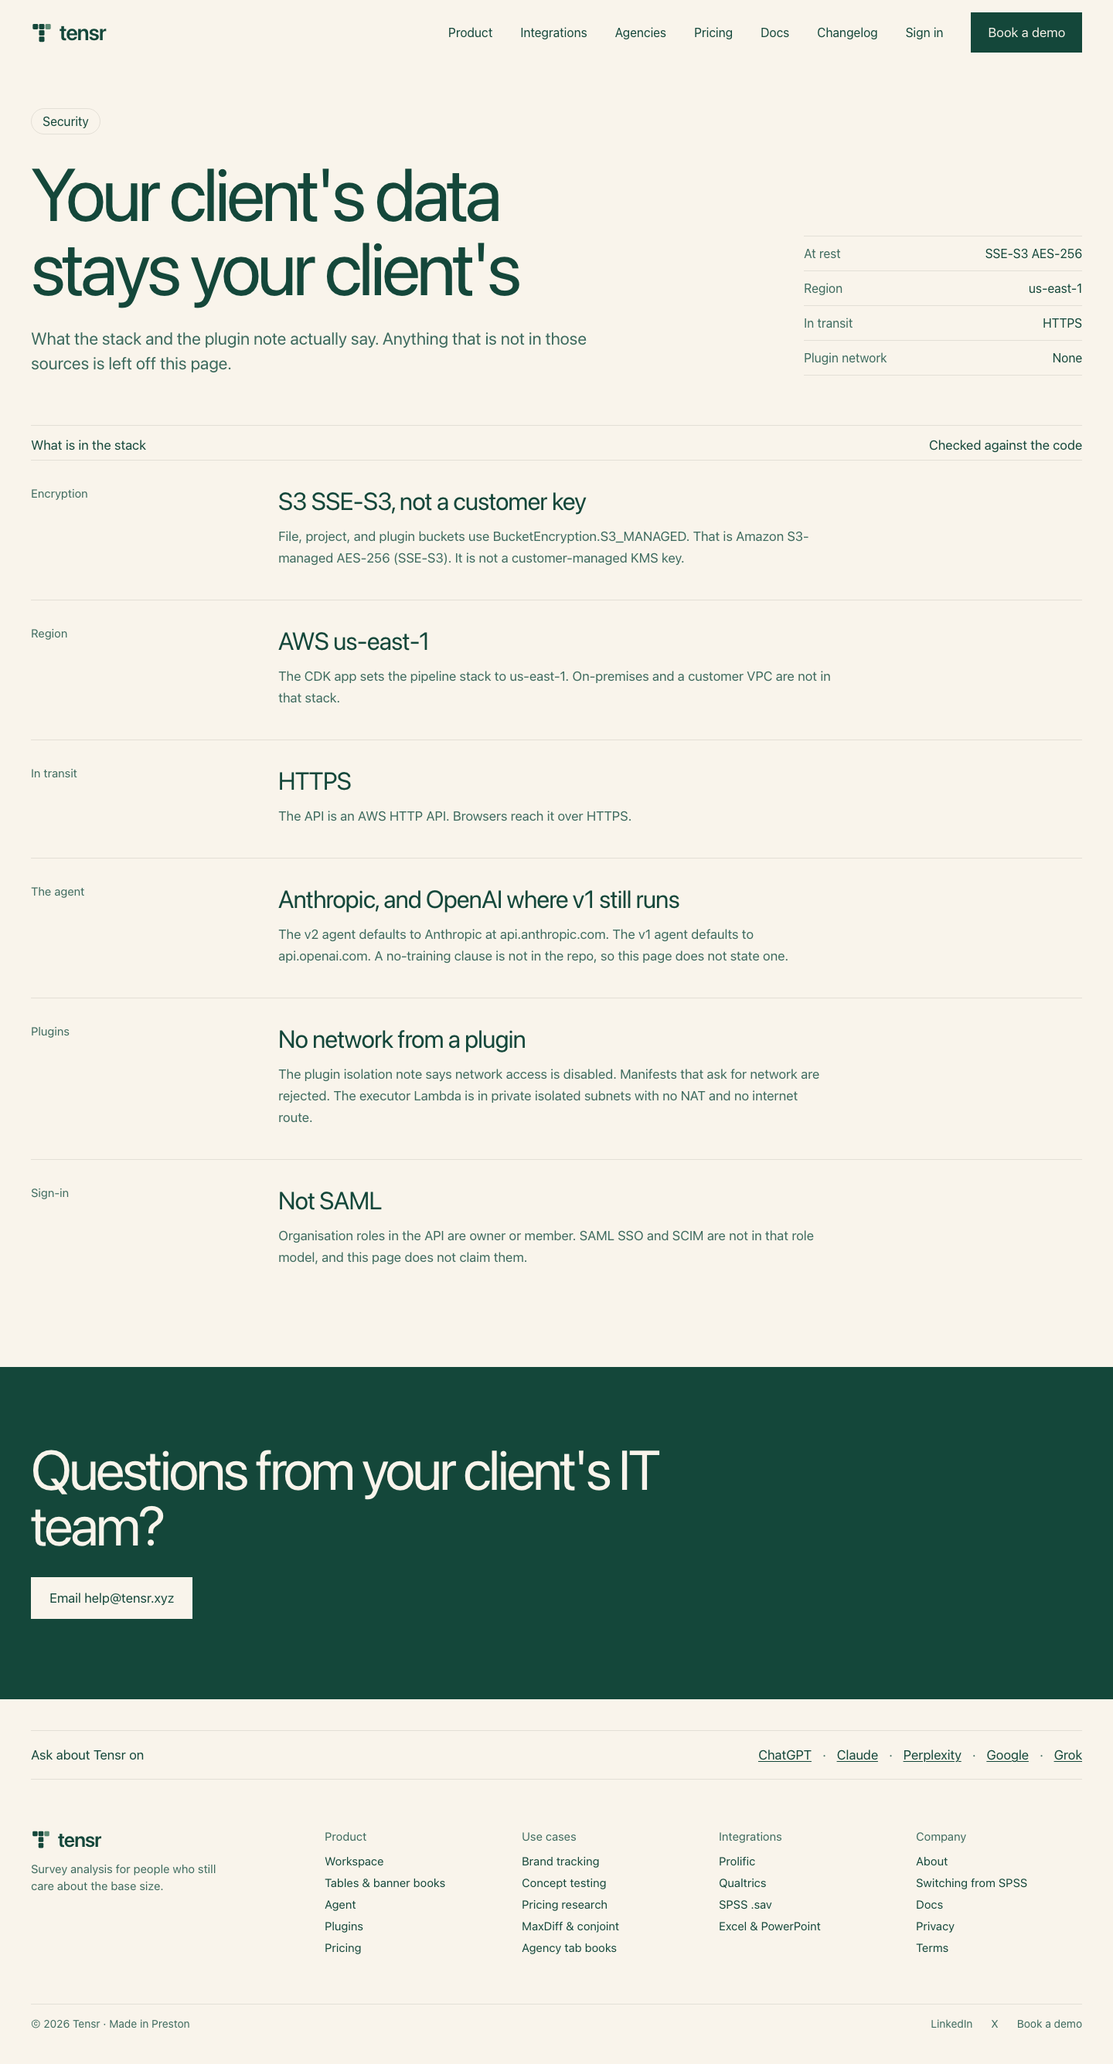
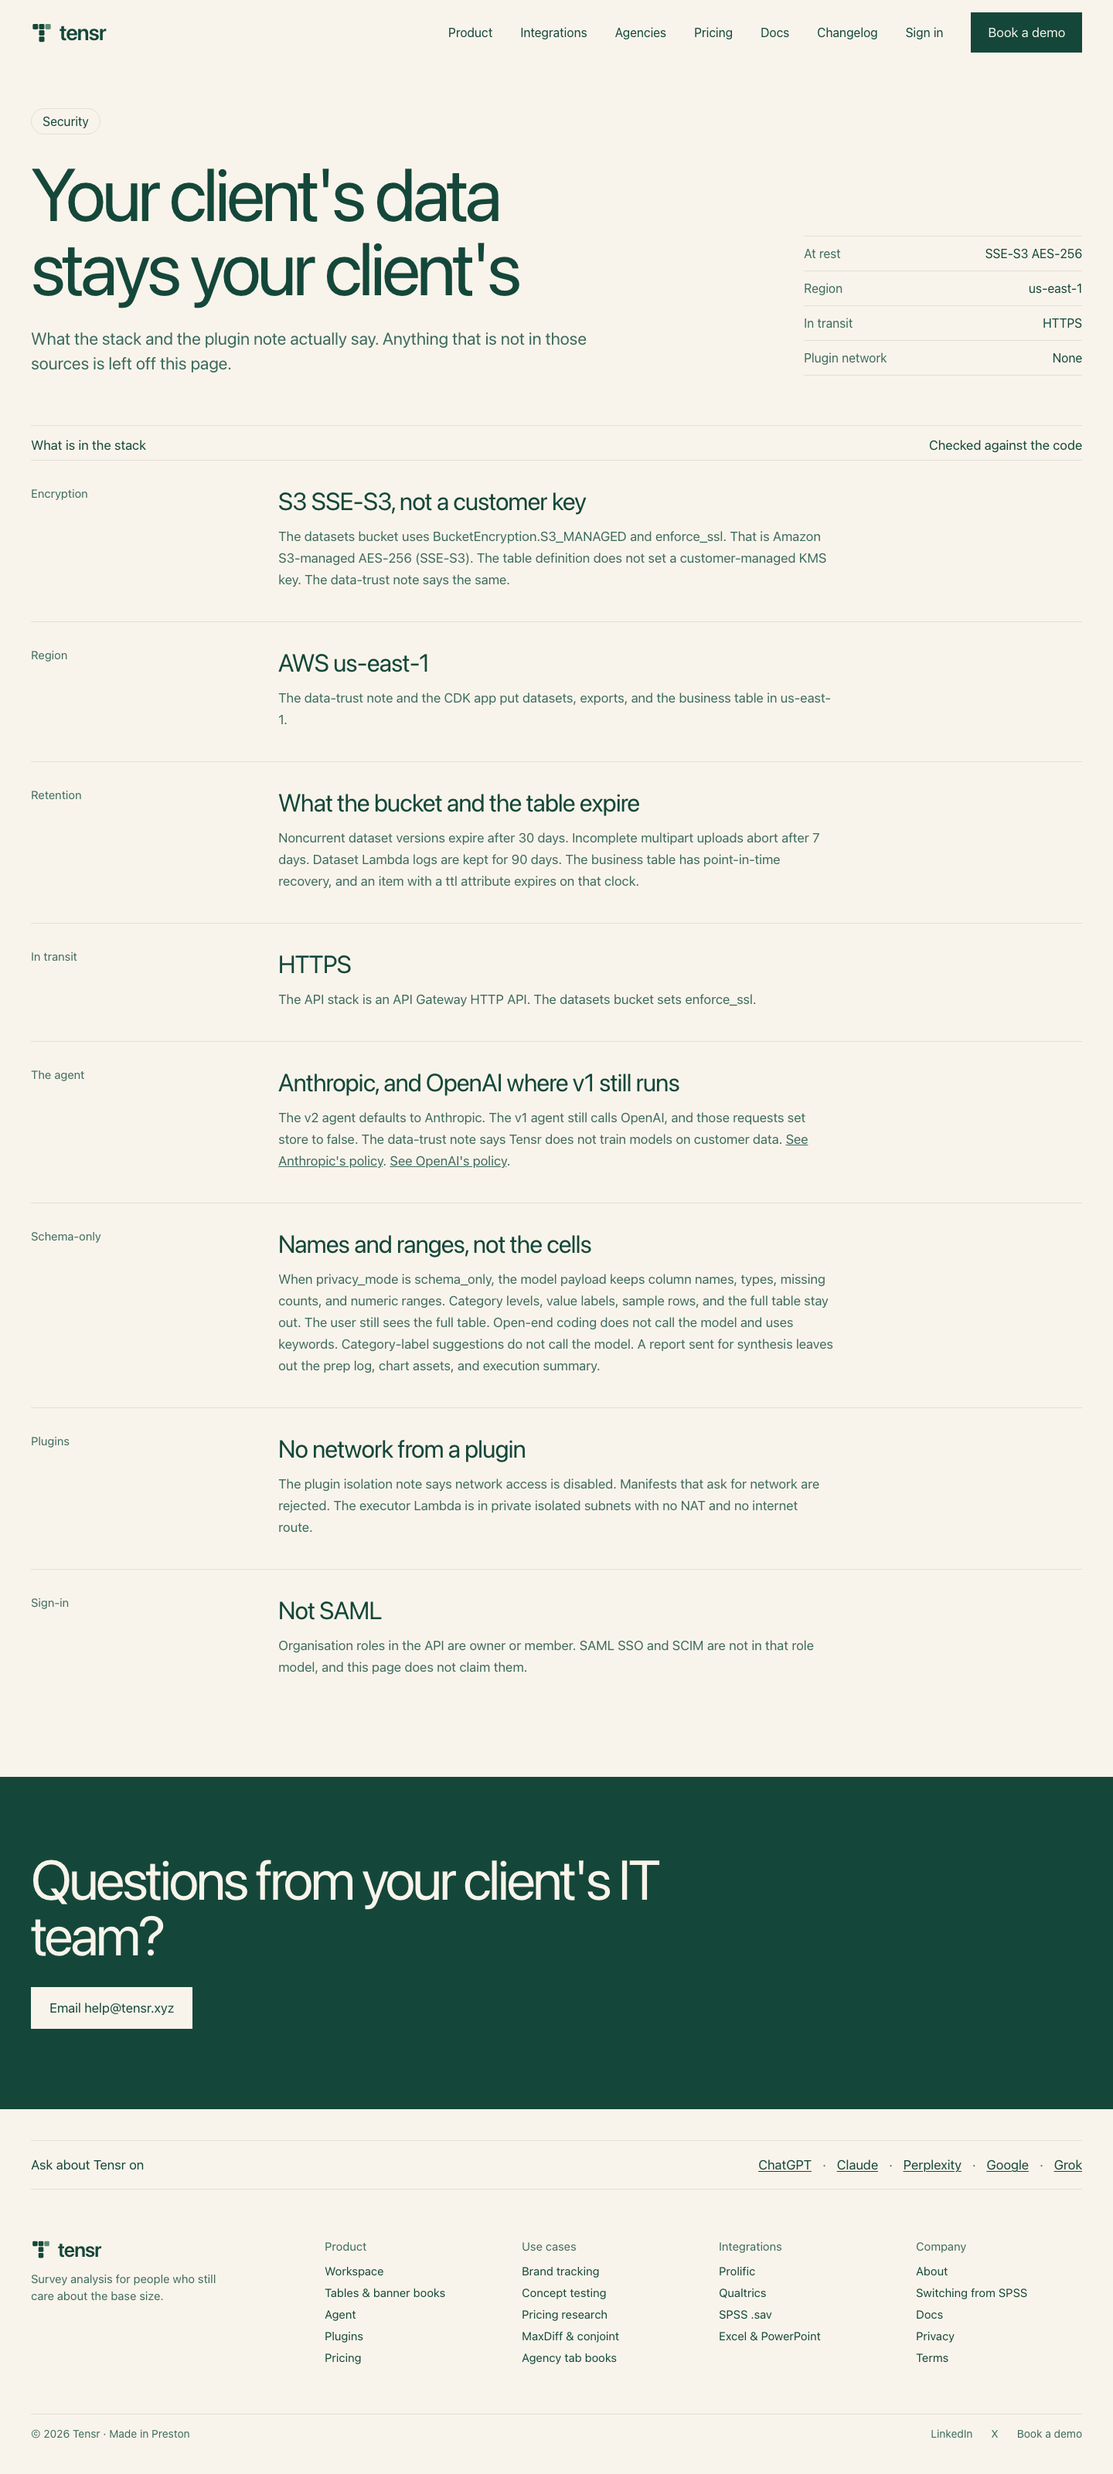
Describe open-end coding as it ships, and link the provider data policies.

diff --git a/app/security/page.tsx b/app/security/page.tsx
@@ -1,31 +1,57 @@
 import type { Metadata } from 'next';
+import type { ReactNode } from 'react';
 import Link from 'next/link';
 import { PaperShell, SectionRule } from '@/components/paper/shell';
+
+const ANTHROPIC_POLICY = 'https://privacy.claude.com/en/articles/7996868-is-my-data-used-for-model-training';
+const OPENAI_POLICY = 'https://developers.openai.com/api/docs/guides/your-data';
 
 export const metadata: Metadata = {
   title: { absolute: "Your client's data stays your client's · Tensr" },
 };
 
-const blocks = [
+const blocks: { kicker: string; title: string; body: ReactNode }[] = [
   {
     kicker: 'Encryption',
     title: 'S3 SSE-S3, not a customer key',
-    body: 'File, project, and plugin buckets use BucketEncryption.S3_MANAGED. That is Amazon S3-managed AES-256 (SSE-S3). It is not a customer-managed KMS key.',
+    body: 'The datasets bucket uses BucketEncryption.S3_MANAGED and enforce_ssl. That is Amazon S3-managed AES-256 (SSE-S3). The table definition does not set a customer-managed KMS key. The data-trust note says the same.',
   },
   {
     kicker: 'Region',
     title: 'AWS us-east-1',
-    body: 'The CDK app sets the pipeline stack to us-east-1. On-premises and a customer VPC are not in that stack.',
+    body: 'The data-trust note and the CDK app put datasets, exports, and the business table in us-east-1.',
+  },
+  {
+    kicker: 'Retention',
+    title: 'What the bucket and the table expire',
+    body: 'Noncurrent dataset versions expire after 30 days. Incomplete multipart uploads abort after 7 days. Dataset Lambda logs are kept for 90 days. The business table has point-in-time recovery, and an item with a ttl attribute expires on that clock.',
   },
   {
     kicker: 'In transit',
     title: 'HTTPS',
-    body: 'The API stack is an API Gateway HTTP API. Those endpoints are HTTPS.',
+    body: 'The API stack is an API Gateway HTTP API. The datasets bucket sets enforce_ssl.',
   },
   {
     kicker: 'The agent',
     title: 'Anthropic, and OpenAI where v1 still runs',
-    body: 'The v2 agent defaults to Anthropic at api.anthropic.com. The v1 agent defaults to api.openai.com. A no-training clause is not in the repo, so this page does not state one.',
+    body: (
+      <>
+        The v2 agent defaults to Anthropic. The v1 agent still calls OpenAI, and those requests set store to false. The data-trust note says Tensr does not train models on customer data.{' '}
+        <a className="underline" href={ANTHROPIC_POLICY}>
+          See Anthropic&apos;s policy
+        </a>
+        .{' '}
+        <a className="underline" href={OPENAI_POLICY}>
+          See OpenAI&apos;s policy
+        </a>
+        .
+      </>
+    ),
+  },
+  {
+    kicker: 'Schema-only',
+    title: 'Names and ranges, not the cells',
+    body: 'When privacy_mode is schema_only, the model payload keeps column names, types, missing counts, and numeric ranges. Category levels, value labels, sample rows, and the full table stay out. The user still sees the full table. Open-end coding does not call the model and uses keywords. Category-label suggestions do not call the model. A report sent for synthesis leaves out the prep log, chart assets, and execution summary.',
   },
   {
     kicker: 'Plugins',
@@ -37,7 +63,7 @@ const blocks = [
     title: 'Not SAML',
     body: 'Organisation roles in the API are owner or member. SAML SSO and SCIM are not in that role model, and this page does not claim them.',
   },
-] as const;
+];
 
 export default function SecurityPage() {
   return (

diff --git a/components/templates/enterprise/index.tsx b/components/templates/enterprise/index.tsx
@@ -22,7 +22,7 @@ export const EnterpriseTemplate = () => {
       id: 'q3',
       question: 'How does Tensr use my data?',
       answer:
-        'Datasets are stored so you can analyse them. They are encrypted at rest with Amazon S3 SSE-S3 (AES-256) and sent over HTTPS. Tensr does not train models on your data. Text sent to the OpenAI API is not used by OpenAI to train their models by default.',
+        'Datasets are stored so you can analyse them. They are encrypted at rest with Amazon S3 SSE-S3 (AES-256) and sent over HTTPS. Provider data-use terms are linked from the security page.',
     },
     {
       id: 'q4',
@@ -100,8 +100,16 @@ export const EnterpriseTemplate = () => {
                   <h2 className="text-base font-medium mb-2">Stored for your analysis</h2>
                   <div className="text-muted-foreground">
                     <p>
-                      Datasets stay in your account so you can reopen them. Tensr does not train
-                      models on them. OpenAI does not train on API data by default.
+                      Datasets stay in your account so you can reopen them. The data-trust note says
+                      Tensr does not train models on customer data.{' '}
+                      <a className="underline" href="https://privacy.claude.com/en/articles/7996868-is-my-data-used-for-model-training">
+                        See Anthropic&apos;s policy
+                      </a>
+                      .{' '}
+                      <a className="underline" href="https://developers.openai.com/api/docs/guides/your-data">
+                        See OpenAI&apos;s policy
+                      </a>
+                      .
                     </p>
                   </div>
                 </div>

diff --git a/components/paper/agencies.tsx b/components/paper/agencies.tsx
@@ -230,7 +230,20 @@ export function AgenciesPage() {
           <div className="flex gap-2">
             {[
               ['Encrypted at rest', 'Files are stored in AWS us-east-1 with S3 SSE-S3 AES-256, and sent over HTTPS.'],
-              ['Who the agent calls', 'The current agent calls Anthropic. The earlier agent still calls OpenAI. A provider training policy is not stated here.'],
+              [
+                'Who the agent calls',
+                <>
+                  The current agent calls Anthropic. The earlier agent still calls OpenAI.{' '}
+                  <a className="underline" href="https://privacy.claude.com/en/articles/7996868-is-my-data-used-for-model-training">
+                    See Anthropic&apos;s policy
+                  </a>
+                  .{' '}
+                  <a className="underline" href="https://developers.openai.com/api/docs/guides/your-data">
+                    See OpenAI&apos;s policy
+                  </a>
+                  .
+                </>,
+              ],
               ['Where it lives', 'The store today is us-east-1. Ask before you upload if a contract needs somewhere else.'],
             ].map(([title, body]) => (
               <div key={title} className="flex grow basis-0 flex-col gap-10 border border-[#F9F4EB33] p-7">

diff --git a/components/paper/product.tsx b/components/paper/product.tsx
@@ -126,11 +126,11 @@ export function ProductPage() {
       </section>
 
       <section className="flex flex-col gap-12 px-10 pb-30">
-        <SectionRule left="Open ends" right="Keyword lexicon" />
+        <SectionRule left="Open ends" right="Haiku, then keywords" />
         <div className="flex items-end justify-between gap-10">
-          <h2 className="w-205 shrink-0 text-[56px] leading-14.5 tracking-[-0.04em]">An open end stays a keyword match</h2>
+          <h2 className="w-205 shrink-0 text-[56px] leading-14.5 tracking-[-0.04em]">Haiku codes the answers. You can edit the themes.</h2>
           <p className="w-105 shrink-0 text-[18px] leading-6.75 text-[#3D6A5E]">
-            Verbatim coding is a keyword lexicon. It is not a model that writes themes. The layout below has the result figures taken off.
+            Haiku proposes a code frame from a sample of the answers, then codes every answer with a confidence score. A score under 0.6, or no code, goes to the review queue. Keyword coding is the fallback, and a schema-only study uses it automatically. Themes tabulate as a weighted multi-response, with significance letters, and a cell opens the verbatims. The layout below has the result figures taken off.
           </p>
         </div>
         <PaperScreen

diff --git a/components/templates/home/index.tsx b/components/templates/home/index.tsx
@@ -341,8 +341,16 @@ export const HomeTemplate = () => {
                   Encrypted by default
                 </h4>
                 <p className="text-[15px] leading-relaxed text-text-muted">
-                  Datasets are encrypted at rest (S3 AES-256) and in transit (HTTPS). Tensr does not
-                  train models on your data. OpenAI does not train on API data by default.
+                  Datasets are encrypted at rest (S3 AES-256) and in transit (HTTPS). The data-trust note
+                  says Tensr does not train models on customer data.{' '}
+                  <a className="underline" href="https://privacy.claude.com/en/articles/7996868-is-my-data-used-for-model-training">
+                    See Anthropic&apos;s policy
+                  </a>
+                  .{' '}
+                  <a className="underline" href="https://developers.openai.com/api/docs/guides/your-data">
+                    See OpenAI&apos;s policy
+                  </a>
+                  .
                 </p>
               </div>
 

diff --git a/components/templates/pricing/index.tsx b/components/templates/pricing/index.tsx
@@ -198,7 +198,7 @@ const faqItems = [
     id: 'security',
     question: 'Where does my data live, and is it secure?',
     answer:
-      'Datasets are stored in AWS us-east-1, encrypted at rest with S3 AES-256 and sent over HTTPS. Tensr does not train models on your data. OpenAI does not train on API data by default. SSO and SCIM are not available. Contact us for a DPA.',
+      'Datasets are stored in AWS us-east-1, encrypted at rest with S3 AES-256 and sent over HTTPS. The data-trust note says Tensr does not train models on customer data. See Anthropic’s policy at https://privacy.claude.com/en/articles/7996868-is-my-data-used-for-model-training and OpenAI’s policy at https://developers.openai.com/api/docs/guides/your-data. SSO and SCIM are not available. Contact us for a DPA.',
   },
   {
     id: 'academic',

diff --git a/components/paper/landing.tsx b/components/paper/landing.tsx
@@ -136,8 +136,8 @@ function HeroPanels() {
         </div>
         <div className="flex w-[320px] flex-col gap-2 bg-[#FCFAF5] px-4.5 py-4 text-[#14473A]">
           <p className="text-[14px] leading-4.5">Open-end · coded</p>
-          <p className="text-[18px] leading-6.5">A verbatim, coded to a theme you can edit.</p>
-          <p className="text-[14px] leading-4.5">Usable as a banner afterwards.</p>
+          <p className="text-[18px] leading-6.5">Haiku codes each answer. You can edit the themes.</p>
+          <p className="text-[14px] leading-4.5">A weighted multi-response, with letters, back to the verbatims.</p>
         </div>
       </div>
       <div className="flex flex-col justify-between bg-[#7895A8] p-5">

diff --git a/design/paper/PROGRESS-site.md b/design/paper/PROGRESS-site.md
@@ -9,14 +9,14 @@ Counts: todo 0 · matched 0 · done 9
 | Page | Artboard | Route | Status | Live |
 | --- | --- | --- | --- | --- |
 | 0 Landing | 2WD-0 | `/` | done | `design/paper/live/0-landing.png` 1440×7624 |
-| 0b Product | 18A5-0 | `/product` | done | `design/paper/live/0b-product.png` 1440×10774 |
+| 0b Product | 18A5-0 | `/product` | done | `design/paper/live/0b-product.png` 1440×10936 |
 | 0c Integrations | 1CX3-0 | `/integrations` | done | `design/paper/live/0c-integrations.png` 1440×4695 |
 | 0d Agencies | 17UM-0 | `/agencies` | done | `design/paper/live/0d-agencies.png` 1440×6458 |
 | 0e Pricing | 1BZU-0 | `/pricing` | done | `design/paper/live/0-pricing.png` 1440×3294 |
 | 0h Book a demo | 1A3G-0 | `/demo` | done | `design/paper/live/0-demo.png` 1440×1570 |
 | 0i Docs | 1DTL-0 | `/docs` | done | `design/paper/live/0-docs.png` 1440×2046 |
 | 0j Changelog | 1DTM-0 | `/changelog` | done | `design/paper/live/0-changelog.png` 1440×5824 |
-| 0k Security | 1DTN-0 | `/security` | done | `design/paper/live/0-security.png` 1440×2671 |
+| 0k Security | 1DTN-0 | `/security` | done | `design/paper/live/0-security.png` 1440×3201 |
 
 `matched` means the page is built and compared. `done` means the layout and type match the artboard, with the copy made honest where the artboard invents things.
 
@@ -38,12 +38,12 @@ Counts: todo 0 · matched 0 · done 9
 - Type on the Paper pages is weight 400, plus 500 where that page’s export uses it. The wordmark and the workspace marks the export sets at 600 stay at 600.
 - A route change shows one Loading state. Loaded sections do not fade in on their own.
 - Landing is done. Honest copy: the case-study slot is the four-step workflow; Prolific fielding reads Coming soon; the Qualtrics stack tile is not labelled coming soon because file import exists; MaxDiff, conjoint, Van Westendorp, and Gabor-Granger are available. The Show row is one line.
-- Product is done at 1440×10774, against a 10236 artboard. Choice modelling and the pricing card say MaxDiff, conjoint, Van Westendorp, and Gabor-Granger are available. Plugins are not a store. Levelled data is not claimed. The report does not say a deck updates while fieldwork is open. Notebook copy is R cells and an R script. Open ends are a keyword lexicon (`docs/claims.md`), not model-written themes.
+- Product is done at 1440×10936, against a 10236 artboard. Choice modelling and the pricing card say MaxDiff, conjoint, Van Westendorp, and Gabor-Granger are available. Plugins are not a store. Levelled data is not claimed. The report does not say a deck updates while fieldwork is open. Notebook copy is R cells and an R script. Open ends: Haiku proposes a code frame from a sample and codes every answer with a confidence score. Under 0.6, or no code, is a review row. Keyword coding is the fallback and is what schema-only studies run. Themes are a weighted multi-response with significance letters, and a cell opens the verbatims.
 - Product screens are the Paper exports `4a-responses`, `4c-evidence`, `4g-themes`, and `5-tables` from `tensr-platform-web-flow/design/paper/`, copied to `public/paper/product/`. The Prolific chip, the 312/400 count, result percentages, bases, and quote callouts are painted out. Sidebar labels such as “W4 client book” remain as chrome. localhost:3000 was not used. Real app captures replace these files later.
 - Integrations is done at 1440×4695, against a 5624 artboard. The grid includes a Plugins card: no network, and this version does not charge for a toolkit. Alchemer and Decipher imports say coming soon. A Qualtrics CSV and a Qualtrics definition stay. Print is the browser dialog. The Prolific block is four steps, not the artboard’s fielding screen. That substitution is why the page is shorter.
-- Agencies is done at 1440×6458, against a 6559 artboard. Honest copy: no 42-table wave, no Scotland 42%, no Prolific 312/400, no client template, no named partners. The next wave reruns when the file is in, not while fieldwork is open. Organisation roles are owner or member. Files are AWS us-east-1 with SSE-S3 AES-256. The earlier “never used to train” and “OpenAI does not train on API data” sentences are removed. The card now says the v2 agent calls Anthropic and v1 still calls OpenAI, and that a training policy is not stated. Design partners is an invitation, with no names and no count.
+- Agencies is done at 1440×6458, against a 6559 artboard. Honest copy: no 42-table wave, no Scotland 42%, no Prolific 312/400, no client template, no named partners. The next wave reruns when the file is in, not while fieldwork is open. Organisation roles are owner or member. Files are AWS us-east-1 with SSE-S3 AES-256. The confidentiality card names Anthropic and OpenAI and links each provider’s published API data-use page. It does not restate those terms. Design partners is an invitation, with no names and no count.
 - Pricing is done at 1440×3294, against a 4896 artboard. Prices are `app/plan_catalog.json`: Pro £79 / £63 annual (£756), Pro+ £149 / £119 (£1,428), Teams £119 a seat with a 3-seat minimum / £95 (£1,140 a seat). Trial is £0 for 30 days, 5 datasets, 100,000 rows, 150 tables, 150 agent runs, 150 reports, 8 runs an hour. USD figures in the catalog are marked proposed and are not on the page. Priority support, early access, and a PDF file are not in the catalog, so those artboard rows are not on the page. That is why it is shorter.
 - Book a demo is done at 1440×1570, against a 1670 artboard. The form is `mailto:help@tensr.xyz`. Fields start empty. There is no calendar and no prefilled name. Step 03 does not say the deck regenerates while fieldwork is open, and it does not mention a client template.
 - Docs index is done at 1440×2046, against a 2433 artboard. The sidebar and the cards link to the real guides in `content/docs/meta.json`. The introduction is the real `index.mdx`. Article routes stay on the docs reader.
 - Changelog is done at 1440×5824, against a 3055 artboard. Entries are `getChangelogEntries()`, the published notes, newest first. The artboard’s 21 Oct “Merging and levelled data” card is not a note. There is no mailing list, so the subscribe box is an RSS link.
-- Security is done at 1440×2671, against a 3148 artboard. Checked before writing: CDK region us-east-1; file, project, and plugin buckets use `BucketEncryption.S3_MANAGED` (SSE-S3 AES-256), not a customer-managed KMS key; the API is an API Gateway HTTP API (HTTPS); v2 defaults to Anthropic and v1 defaults to OpenAI; `docs/plugin-isolation.md` says plugin network access is disabled. No file named data-trust exists in tensr-api. Left off the page because they are not in the repo: a provider training promise, SOC 2, a deletion retention window (the 30-day S3 rule is a move to infrequent access, not a delete), SAML, and SCIM.
+- Security is done at 1440×3201, against a 3148 artboard. The data-trust note is `tensr-platform-web/docs/DATA_TRUST_AND_COMPLIANCE.md` (first committed 2026-08-03, updated through 2026-10-04). There is no separate copy in tensr-api/docs or the site docs. Used from that note, and checked in `infra/stacks/data_stack.py`: SSE-S3, `enforce_ssl`, noncurrent versions expire after 30 days, incomplete multipart uploads abort after 7 days, business-table point-in-time recovery, and a `ttl` attribute. Dataset Lambda logs are `RetentionDays.THREE_MONTHS`. Schema-only is `privacy_mode == schema_only` in `schema_privacy.py`: the model gets names, types, missing counts, and numeric ranges; category levels, value labels, sample rows, and full tables stay out. Open-end coding and category-label suggestions do not call the model in that mode. v1 OpenAI requests set `store: false`. Provider training terms are links only: Anthropic’s privacy-center article and OpenAI’s API data-controls page. Left off: SOC 2, SAML, SCIM, and a customer-managed KMS key.
